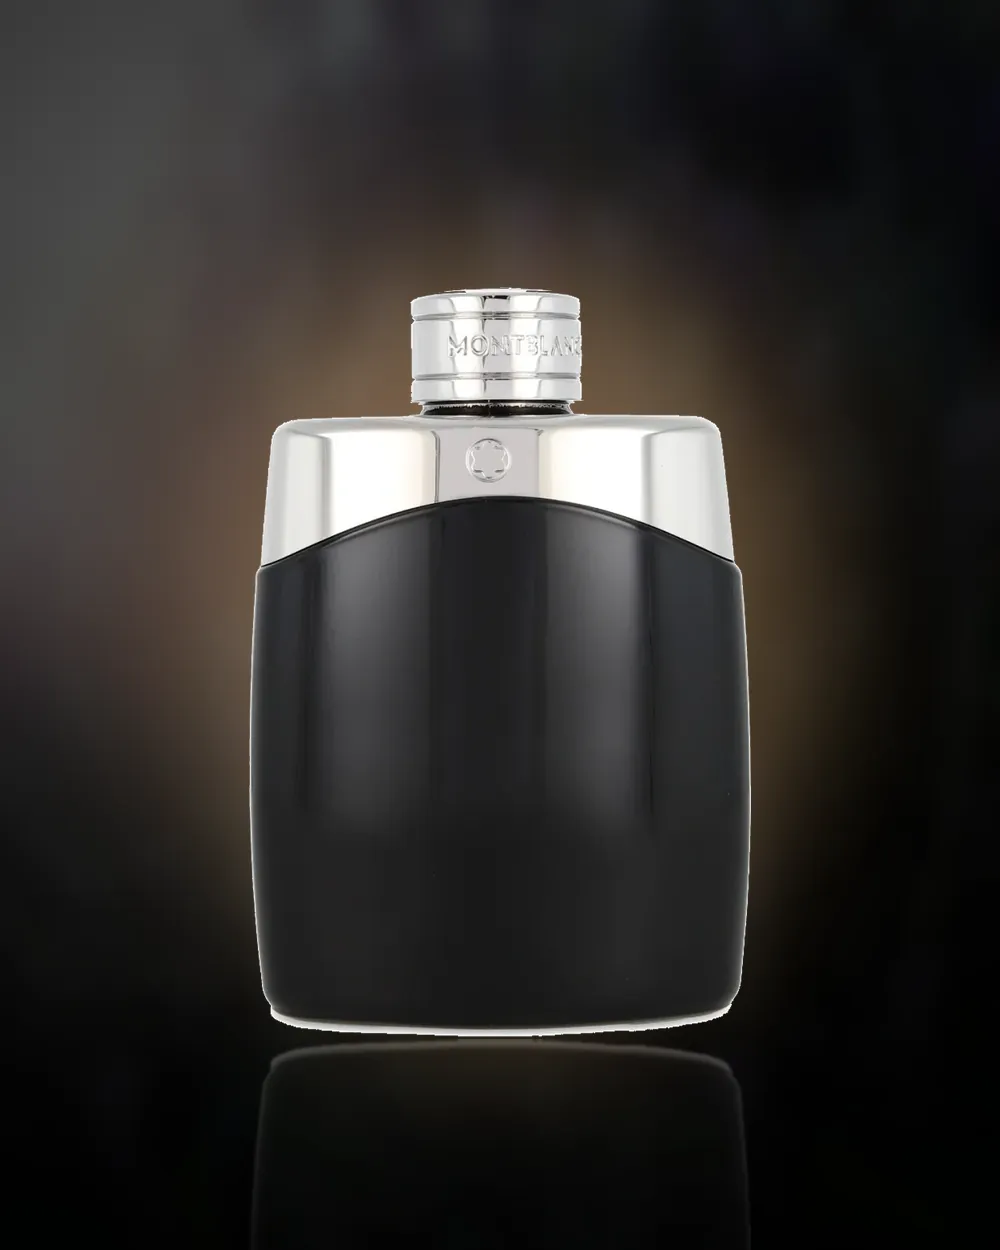
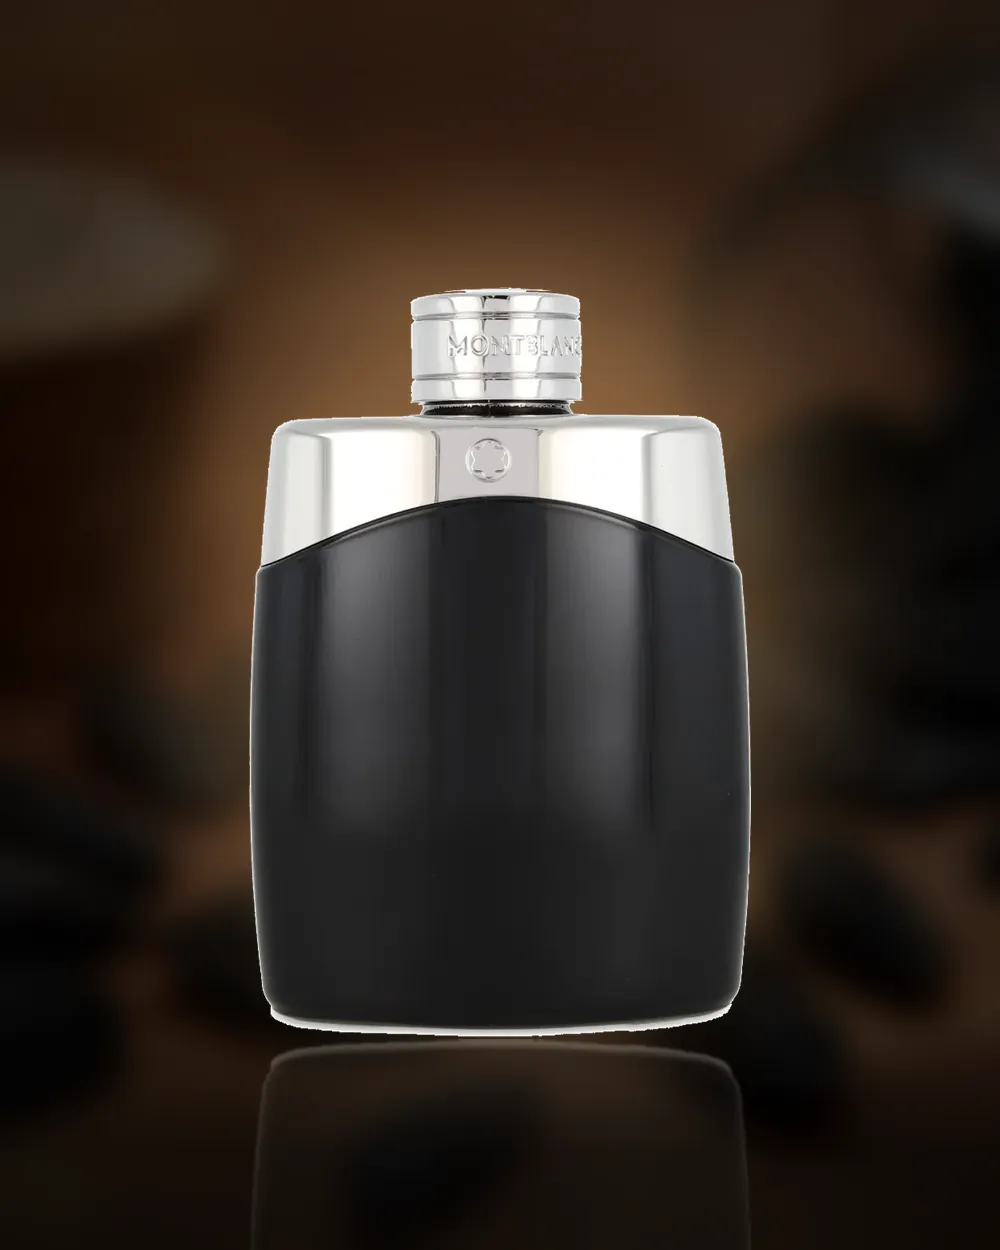
Fotos de las 32 notas que faltaban y escenas regeneradas
Claude-Session: https://claude.ai/code/session_0153EicVR39Az6Bke1P7rA9m

diff --git a/perfumes.js b/perfumes.js
@@ -357,39 +357,39 @@ const NOTAS = {
   azahar:    { nombre: "Flor de azahar", desc: "Floral luminoso", foto: "neroli" },
   cedro:     { nombre: "Cedro",         desc: "Amaderado", foto: "maderas" },
   guayaco:   { nombre: "Guayaco",       desc: "Amaderado", foto: "maderas" },
-  /* Notas sin foto todavía (se muestran con color). Al agregar su foto, quite "foto: false". */
-  almendra:  { nombre: "Almendra",      desc: "Gourmand",         foto: false, color: "#C8A27A" },
-  tuberosa:  { nombre: "Tuberosa",      desc: "Floral blanco",    foto: false, color: "#E9DFC9" },
-  cacao:     { nombre: "Cacao",         desc: "Gourmand",         foto: false, color: "#6A4330" },
-  grosella:  { nombre: "Grosella negra", desc: "Afrutada",        foto: false, color: "#6B2A55" },
-  iris:      { nombre: "Iris",          desc: "Atalcado",         foto: false, color: "#8C7BB8" },
-  frambuesa: { nombre: "Frambuesa",     desc: "Afrutada",         foto: false, color: "#C2264B" },
-  miel:      { nombre: "Miel",          desc: "Melosa",           foto: false, color: "#D99A2B" },
-  rosa:      { nombre: "Rosa",          desc: "Floral",           foto: false, color: "#C9567A" },
-  rangun:    { nombre: "Enredadera de Rangún", desc: "Floral atalcado", foto: false, color: "#E9A3B8" },
-  mango:     { nombre: "Mango",         desc: "Afrutado",         foto: false, color: "#F0A030" },
-  sandalo:   { nombre: "Sándalo",       desc: "Cremoso",          foto: false, color: "#B98A5E" },
-  limon:     { nombre: "Limón siciliano", desc: "Cítrico",        foto: false, color: "#E8D44D" },
-  laurel:    { nombre: "Laurel",        desc: "Aromático",        foto: false, color: "#6E8B4A" },
-  mandarina: { nombre: "Mandarina sanguina", desc: "Cítrica",     foto: false, color: "#E8702A" },
-  canela:    { nombre: "Canela",        desc: "Especiada",        foto: false, color: "#A0522D" },
-  cuero:     { nombre: "Cuero",         desc: "Intenso",          foto: false, color: "#6B4226" },
-  menta:     { nombre: "Menta",         desc: "Fresca",           foto: false, color: "#5FB38A" },
-  haba:      { nombre: "Haba tonka",    desc: "Cálida",           foto: false, color: "#7A5238" },
-  pimienta:  { nombre: "Pimienta negra", desc: "Especiada",       foto: false, color: "#4A403A" },
-  granada:   { nombre: "Granada",       desc: "Afrutada",         foto: false, color: "#B3263A" },
-  peonia:    { nombre: "Peonía",        desc: "Floral",           foto: false, color: "#E79AB0" },
-  pera:      { nombre: "Pera",          desc: "Afrutada",         foto: false, color: "#C9C76A" },
-  champana:  { nombre: "Champán rosado", desc: "Espumoso",        foto: false, color: "#EBC7A8" },
-  durazno:   { nombre: "Flor de durazno", desc: "Afrutada",       foto: false, color: "#F2A98A" },
-  lichi:     { nombre: "Lichi",         desc: "Afrutado",         foto: false, color: "#E8B7BE" },
-  pina:      { nombre: "Piña",          desc: "Tropical",         foto: false, color: "#E9C24A" },
-  coco:      { nombre: "Coco",          desc: "Cremoso",          foto: false, color: "#EDE3D2" },
-  tabaco:    { nombre: "Tabaco",        desc: "Cálido",           foto: false, color: "#7A4E2A" },
-  violeta:   { nombre: "Hoja de violeta", desc: "Verde",          foto: false, color: "#5E6E9E" },
-  salvia:    { nombre: "Salvia",        desc: "Aromática",        foto: false, color: "#8A9A7A" },
-  manzana:   { nombre: "Manzana",       desc: "Afrutada",         foto: false, color: "#B83A32" },
-  castana:   { nombre: "Castaña",       desc: "Gourmand",         foto: false, color: "#7B4B2A" }
+  /* Para una nota sin foto use: foto: false, color: "#hex" */
+  almendra:  { nombre: "Almendra",      desc: "Gourmand" },
+  tuberosa:  { nombre: "Tuberosa",      desc: "Floral blanco" },
+  cacao:     { nombre: "Cacao",         desc: "Gourmand" },
+  grosella:  { nombre: "Grosella negra", desc: "Afrutada" },
+  iris:      { nombre: "Iris",          desc: "Atalcado" },
+  frambuesa: { nombre: "Frambuesa",     desc: "Afrutada" },
+  miel:      { nombre: "Miel",          desc: "Melosa" },
+  rosa:      { nombre: "Rosa",          desc: "Floral" },
+  rangun:    { nombre: "Enredadera de Rangún", desc: "Floral atalcado" },
+  mango:     { nombre: "Mango",         desc: "Afrutado" },
+  sandalo:   { nombre: "Sándalo",       desc: "Cremoso", foto: "maderas" },
+  limon:     { nombre: "Limón siciliano", desc: "Cítrico" },
+  laurel:    { nombre: "Laurel",        desc: "Aromático" },
+  mandarina: { nombre: "Mandarina sanguina", desc: "Cítrica" },
+  canela:    { nombre: "Canela",        desc: "Especiada" },
+  cuero:     { nombre: "Cuero",         desc: "Intenso" },
+  menta:     { nombre: "Menta",         desc: "Fresca" },
+  haba:      { nombre: "Haba tonka",    desc: "Cálida" },
+  pimienta:  { nombre: "Pimienta negra", desc: "Especiada" },
+  granada:   { nombre: "Granada",       desc: "Afrutada" },
+  peonia:    { nombre: "Peonía",        desc: "Floral" },
+  pera:      { nombre: "Pera",          desc: "Afrutada" },
+  champana:  { nombre: "Champán rosado", desc: "Espumoso" },
+  durazno:   { nombre: "Flor de durazno", desc: "Afrutada" },
+  lichi:     { nombre: "Lichi",         desc: "Afrutado" },
+  pina:      { nombre: "Piña",          desc: "Tropical" },
+  coco:      { nombre: "Coco",          desc: "Cremoso" },
+  tabaco:    { nombre: "Tabaco",        desc: "Cálido" },
+  violeta:   { nombre: "Hoja de violeta", desc: "Verde" },
+  salvia:    { nombre: "Salvia",        desc: "Aromática" },
+  manzana:   { nombre: "Manzana",       desc: "Afrutada" },
+  castana:   { nombre: "Castaña",       desc: "Gourmand" }
 };
 
 const SECCIONES = ["Mujer", "Hombre"];

diff --git a/nuevo.html b/nuevo.html
@@ -685,7 +685,7 @@ h2 { font-weight: 500 !important; letter-spacing: -.01em; }
 
 <div class="toast" id="toast" role="status" aria-live="polite"></div>
 
-<script src="perfumes.js?v=20261020c"></script>
+<script src="perfumes.js?v=20261020d"></script>
 <script>
 
 const fmt = new Intl.NumberFormat("es-MX", { style: "currency", currency: "MXN", maximumFractionDigits: 0 });
@@ -1211,7 +1211,7 @@ let spotIdx = Math.max(0, PERFUMES.findIndex(p => p.id === DESTACADO));
 
 function sceneHTML(p) {
   if (!p.img) return media(p);
-  return `<img class="spot-img scene" src="fotos/escenas/${p.id}.webp" alt="${p.marca} ${p.nombre}" onerror="this.onerror=null;this.classList.remove('scene');this.src='${p.img}'">`;
+  return `<img class="spot-img scene" src="fotos/escenas/${p.id}.webp?v=3" alt="${p.marca} ${p.nombre}" onerror="this.onerror=null;this.classList.remove('scene');this.src='${p.img}'">`;
 }
 
 function notaInfo(p, t, i) {

diff --git a/index.html b/index.html
@@ -554,7 +554,7 @@ footer { padding-block: 32px 40px; border-top: 1px solid var(--line); font-size:
 
 <div class="toast" id="toast" role="status" aria-live="polite"></div>
 
-<script src="perfumes.js?v=20261020c"></script>
+<script src="perfumes.js?v=20261020d"></script>
 <script>
 
 const fmt = new Intl.NumberFormat("es-MX", { style: "currency", currency: "MXN", maximumFractionDigits: 0 });
